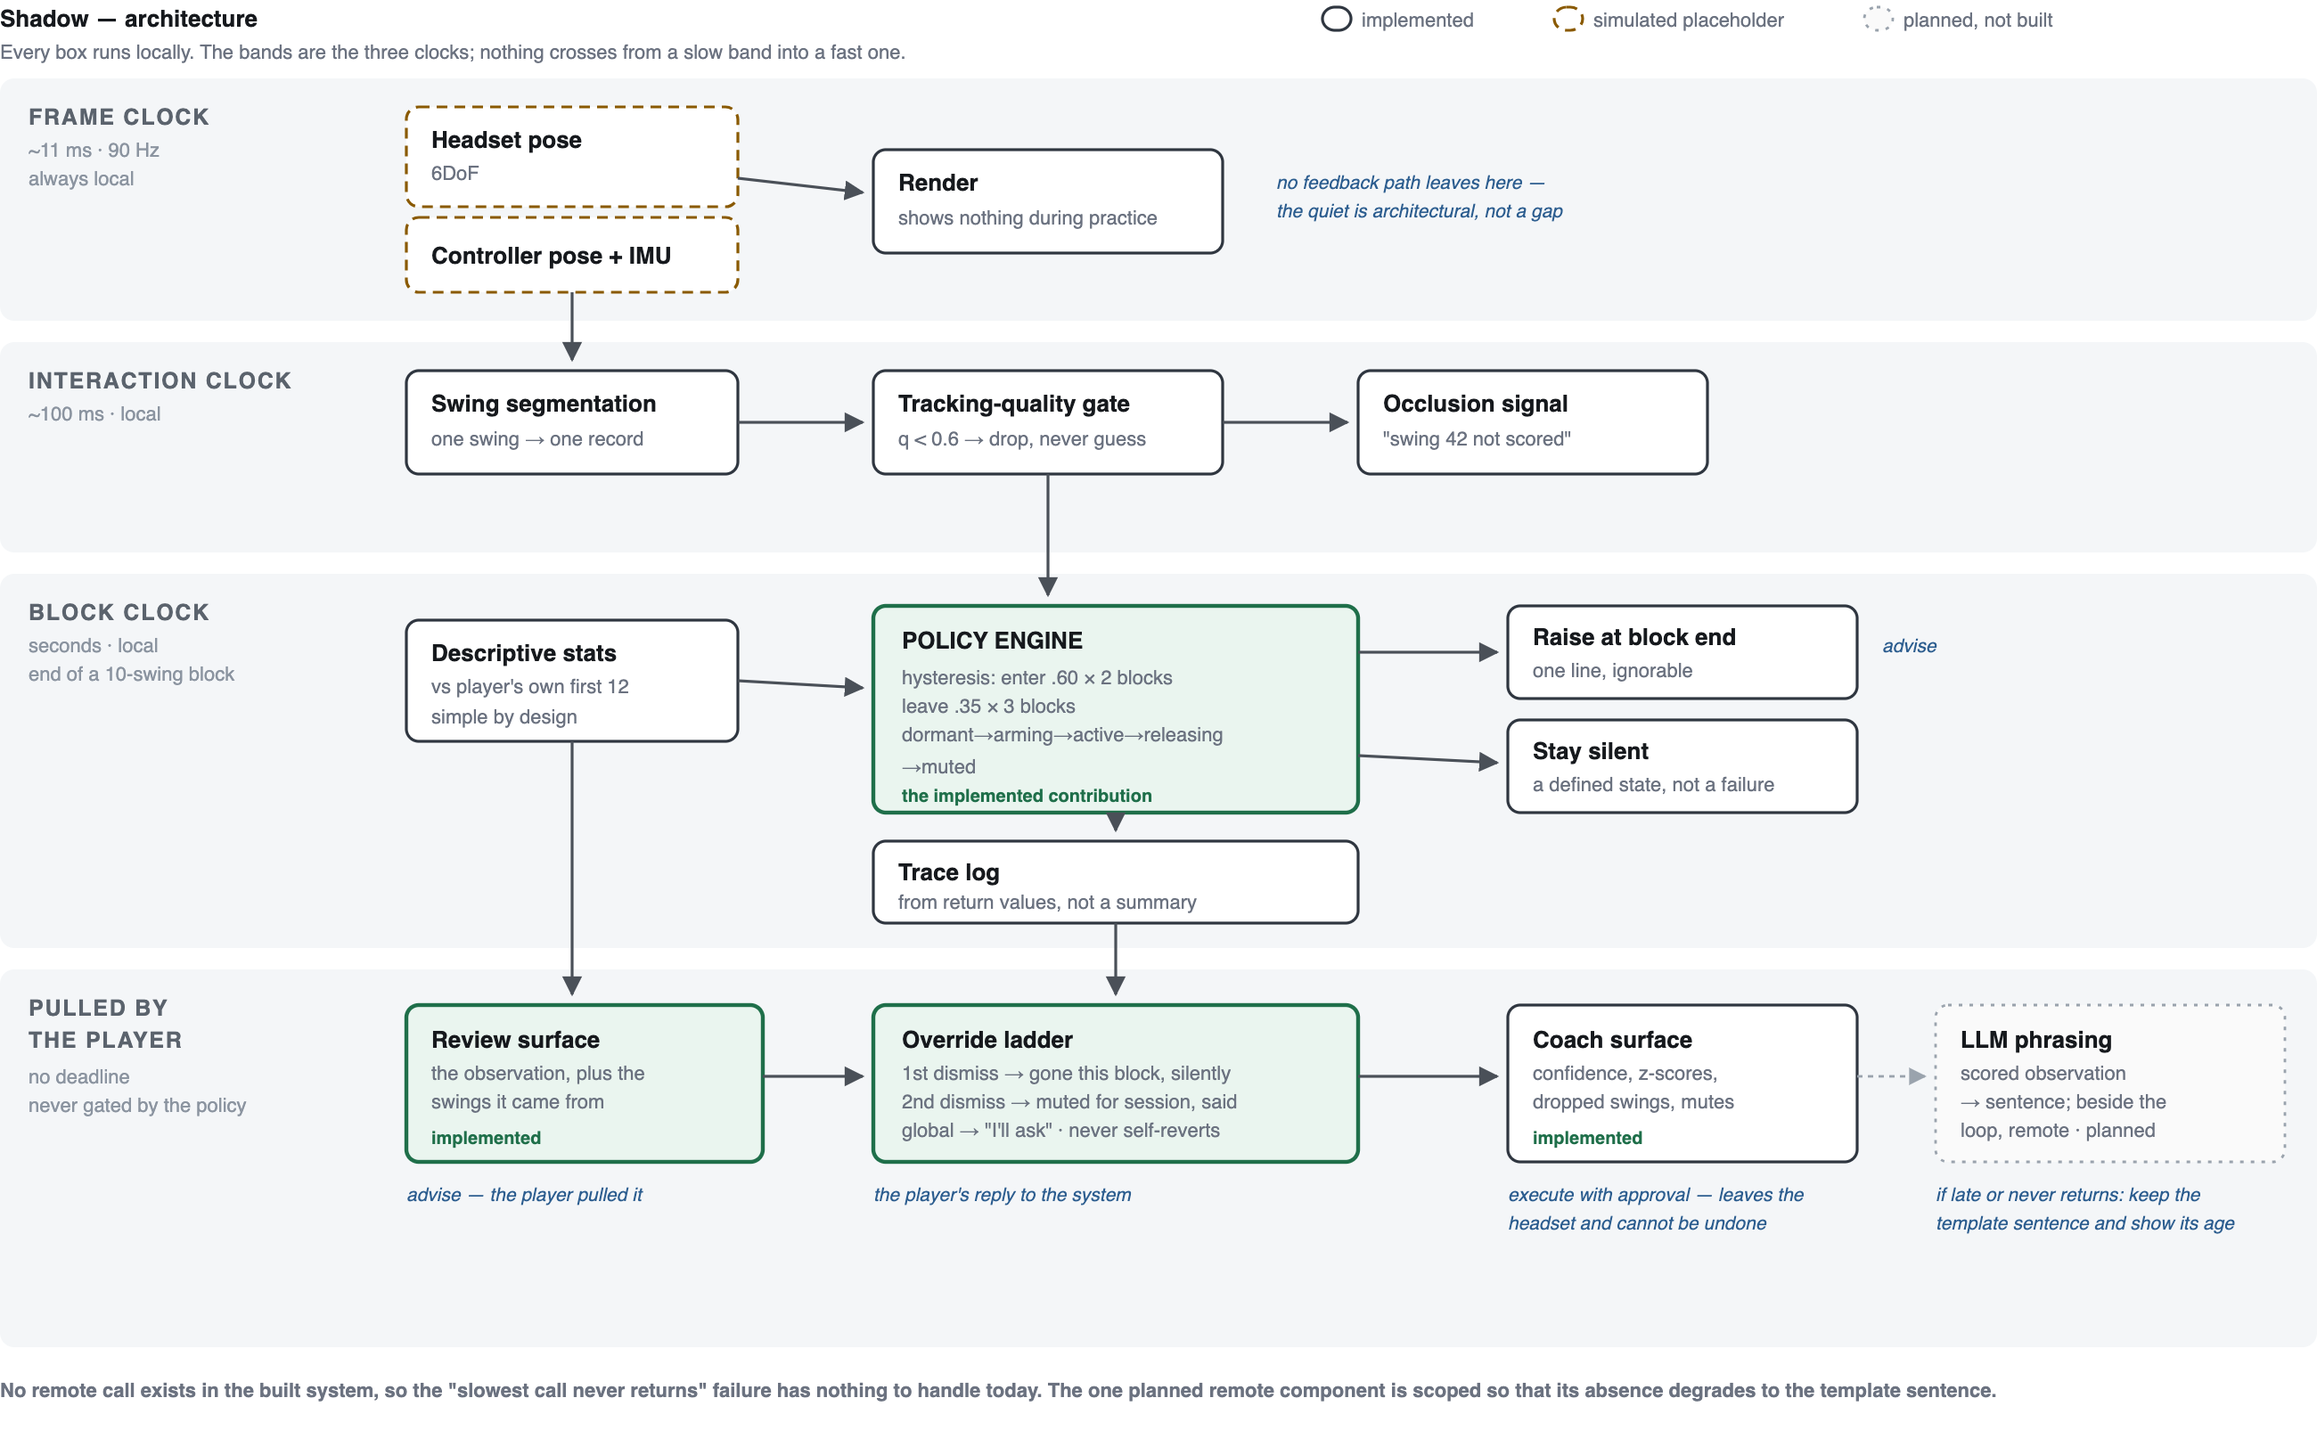
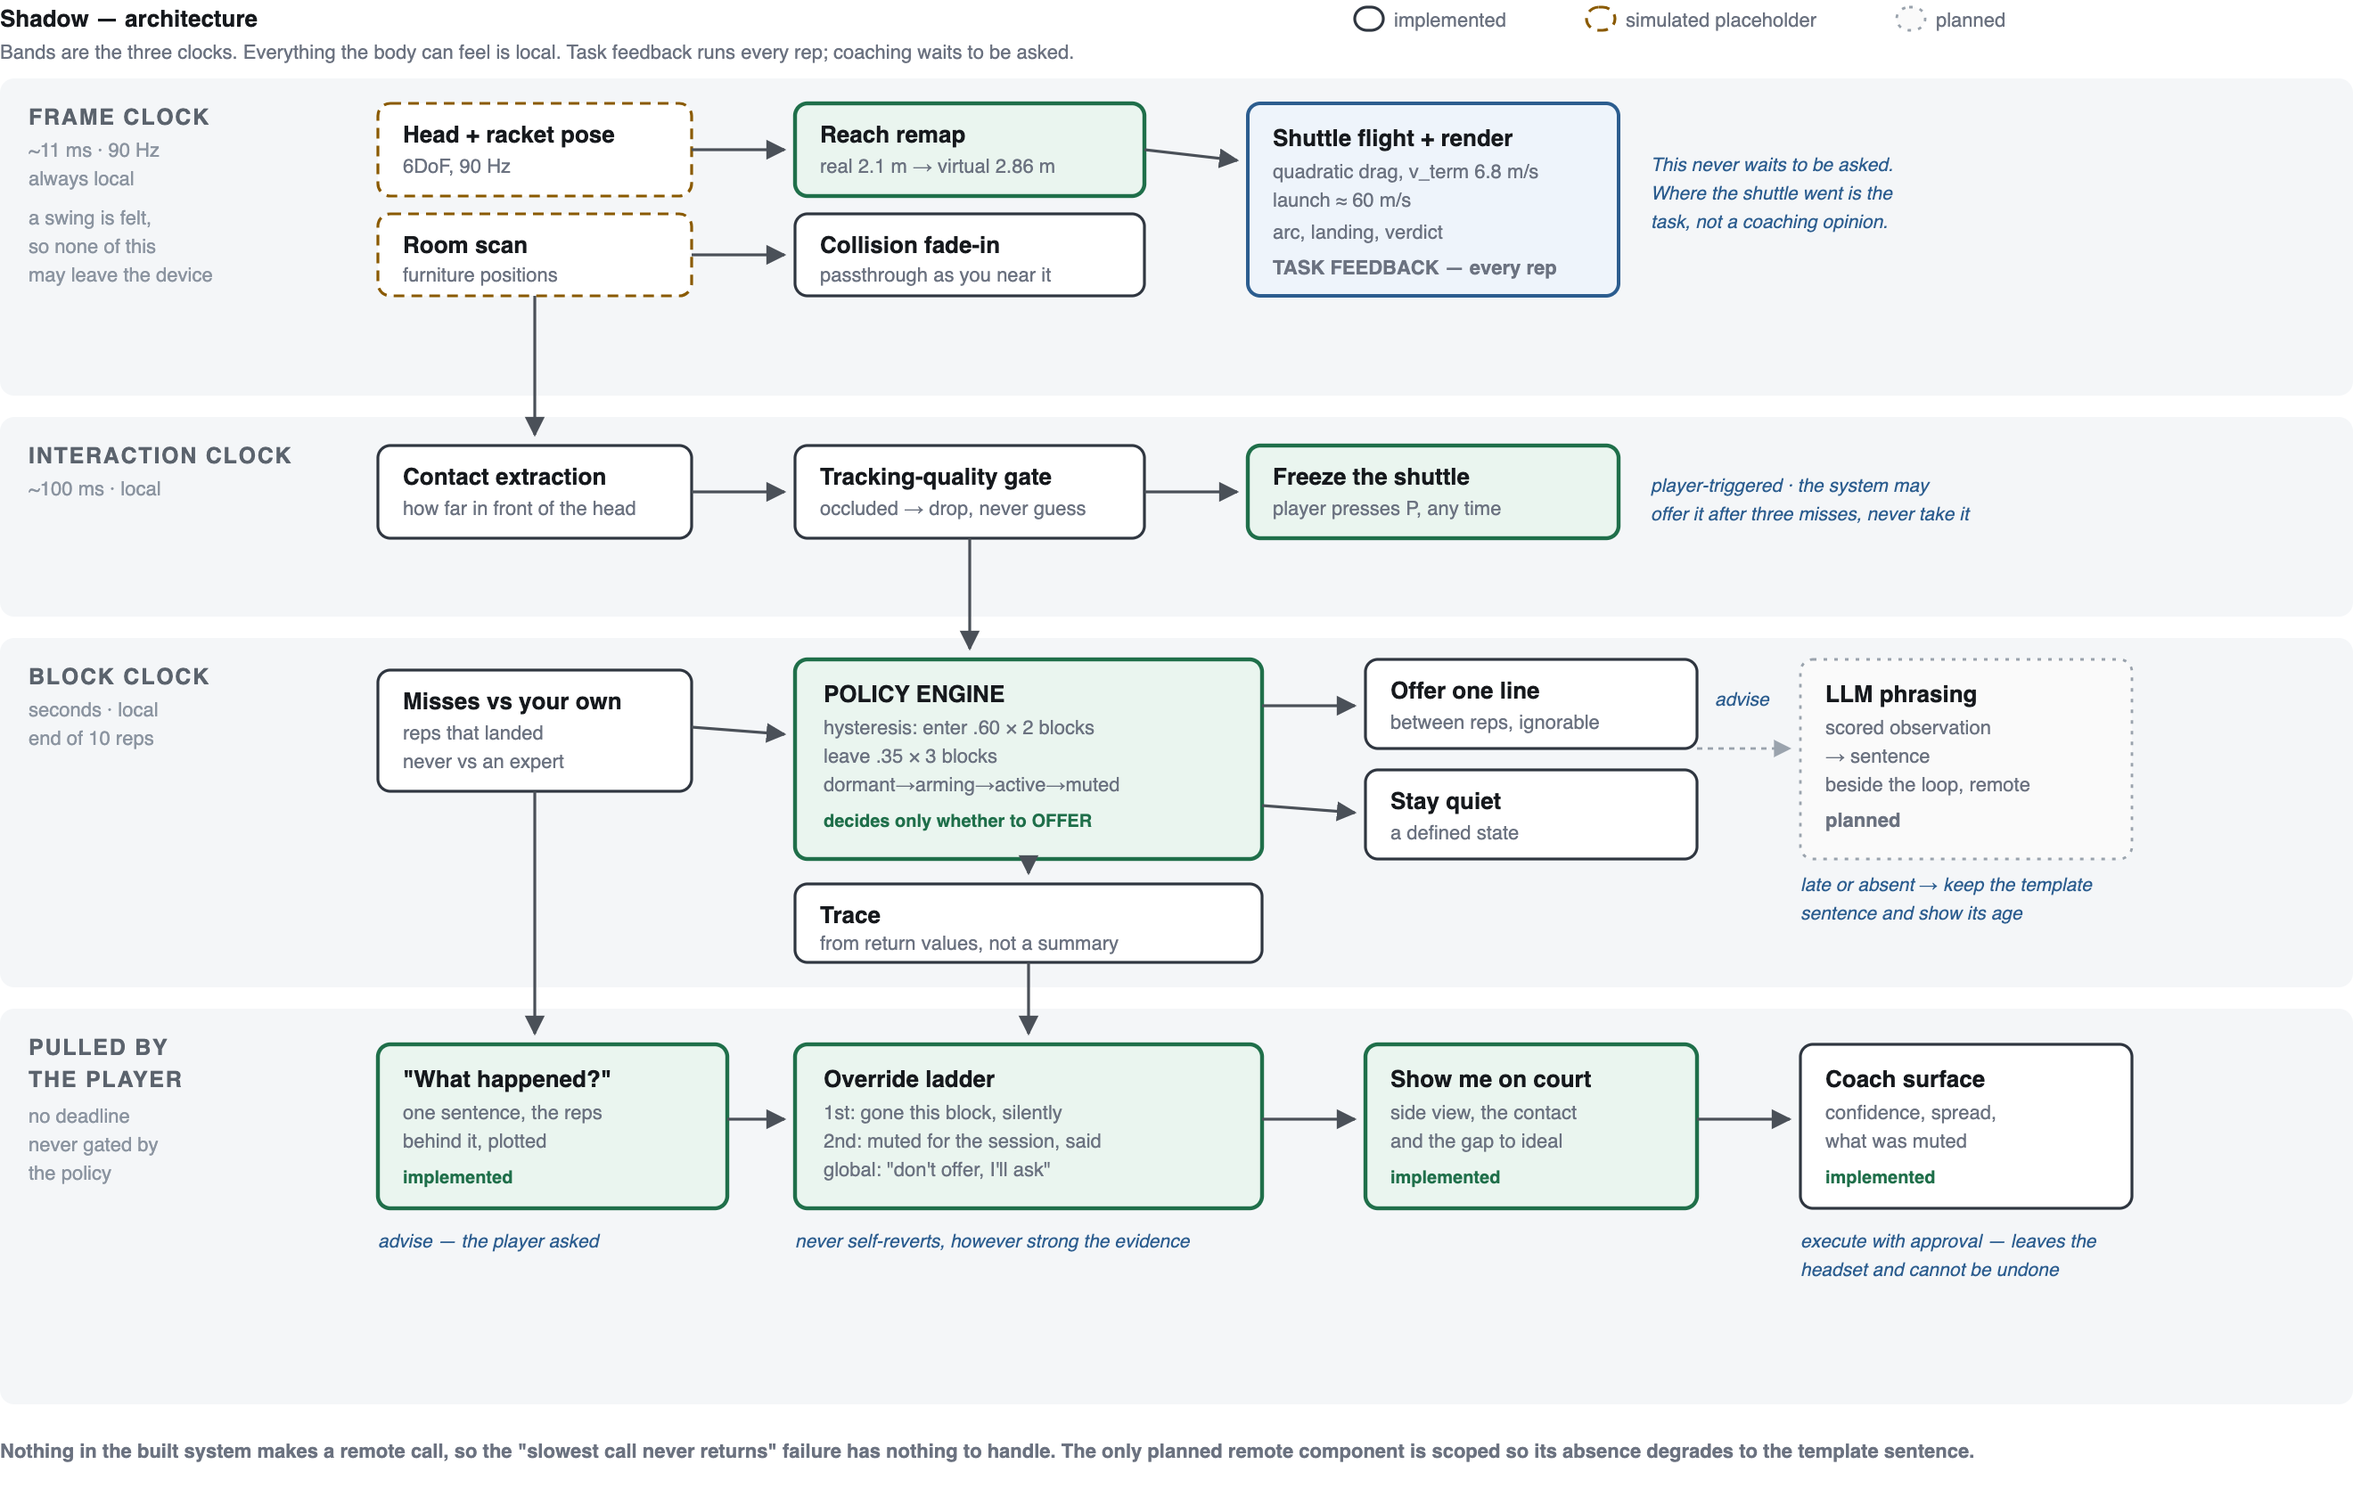
README and AGENTS.md for the rebuilt system

diff --git a/README.md b/README.md
@@ -1,12 +1,16 @@
-# Shadow — badminton shadow practice that waits to be asked
+# Shadow — badminton drills at home, where the shuttle always flies
 
-**README prose word count: ~1,020** (headings and setup commands excluded)
+**README prose word count: ~1,150** (headings and setup commands excluded)
 
-An XR practice tool for badminton shadow swings in which **the player decides when
-the system speaks**. It shows nothing while you swing. It will offer one line at the
-end of a block. Everything else, you pull.
+A home trainer for the evenings you are not on court. You stand in a full virtual
+badminton hall with your own furniture fading in through passthrough as you near it.
+A drill feeder lifts a high clear; you step, swing, and **the shuttle actually flies** —
+on the trajectory your contact produced, clearing the net or not, landing in the target
+box or past it. Every rep.
 
-Built for Assignment 2, Intelligent Interactive Systems, University of Birmingham.
+The coaching is the part that waits to be asked.
+
+Assignment 2, Intelligent Interactive Systems, University of Birmingham.
 Atharva Waghmare (AXW1008).
 
 ---
@@ -15,48 +19,45 @@ Atharva Waghmare (AXW1008).
 
 **Implemented and working**
 
-- The policy engine (`src/policy.js`) — interaction contracts, hysteresis with hold
-  times, and the three-step override ladder. This is the contribution.
-- Four surfaces: Practice, Review, Coach, Trace.
-- Evidence binding — every observation names the swings it came from and draws them
-  on the session trace.
-- The tracking-quality gate: swings with a stale pose are dropped, never guessed at,
-  and are visibly excluded from every number.
-- The decision trace, built from the engine's own return values.
+- The drill loop: feeder, step, swing, flight, landing, verdict.
+- Shuttle flight under quadratic drag. Terminal velocity 6.8 m/s, so launch is near
+  60 m/s and nearly all of it is shed — a parabola reads wrong to anyone who plays.
+- **Reach remap.** A jump smash wants ~3.0 m and a 2.4 m ceiling gives 2.1 m, so the
+  virtual racket reaches 1.36x further. Shown in the HUD, adjustable on the Room page,
+  capped at 1.6x.
+- **Freeze mid-flight** (`P`): the shuttle stops, and a dashed line shows the gap
+  between where it is and where the stroke wants to meet it. The player triggers it;
+  after three misses the system *offers*, and never takes it.
+- The policy engine: contracts, hysteresis with hold times, three-step override ladder.
+- Player review (pull-only) and a separate coach surface behind an approval gate.
+- Furniture fade-in as a collision warning.
 
-**Simulated, and labelled as such in the interface**
+**Simulated, and labelled in the interface**
 
-- Sensing. There is no headset. `src/data.js` generates a 60-swing session with a
-  swing-plane drift injected from swing 20 and three occluded swings. A1 scoped the
-  project to *when* an analysis appears rather than whether it is accurate, so the
-  sensing being simulated does not weaken the claim being tested.
-- The analysis. Descriptive statistics against the player's own first twelve swings.
-  Deliberately simple, for the same reason.
+- Head and racket tracking. There is no headset; `←`/`→` step and `Space` swings, and
+  the *timing* of that press sets where you meet the shuttle — the same variable the
+  coaching layer reads in either case.
 
 **Planned, not built**
 
-- An LLM that turns a scored observation into a sentence, sitting beside the loop
-  rather than inside it. Scoped so that if it is late or never returns, the template
-  sentence stands and shows its age.
-- Longitudinal state. Mutes last one session; nothing is remembered across sessions.
-- The pain-mapping feature from the original concept. It needs pain reports across
-  many sessions, which this build has no way to collect.
+- An LLM to phrase observations, sitting beside the loop. Scoped so that if it is late
+  or absent, the template sentence stands.
+- Progression across sessions. Mutes currently last one session.
 
 **Known limitations**
 
-- Hysteresis is tuned against one generated fixture. The thresholds are defended by
-  argument, not by data from real players.
-- There is no retention measurement. That is the outcome the underlying evidence
-  turns on, and it cannot be established inside the module.
-- The coach surface has one coach and no identity model.
+- Thresholds are defended by argument, not by data from real players.
+- No retention measurement, which is the outcome the evidence turns on.
+- The swing is reduced to its timing: the system models *when* contact happened, not
+  how the arm got there.
 
 ## Technology stack
 
 | Piece | What it does | Why |
 |---|---|---|
-| Vanilla ES modules, no framework | The whole application | No build step, so a reviewer can read the source that actually runs |
-| SVG, inline | Session sparklines | The evidence has to be visible next to the claim |
-| Playwright | `tools/shots.mjs` captures the report figures | Figures are regenerated from the running app, so they cannot drift from the code |
+| Three.js r170, vendored | The hall, court, shuttle, racket, trajectories | Vendored into `vendor/` so the repo runs with no build step and no network |
+| Vanilla ES modules | Everything else | A reviewer can read the source that actually runs |
+| Playwright | `tools/check.mjs` (9 behaviour checks), `tools/shots.mjs` (report figures) | The preview pane I first tested in throttles rAF and timers; a real browser was the only way to trust a result |
 | Python `http.server` | Local static server | ES modules need HTTP; `file://` will not load them |
 
 No AI model runs in the built system. The one planned model component is marked
@@ -70,8 +71,9 @@ python3 -m http.server 4178
 # open http://localhost:4178
 ```
 
-Fastest way to see the argument: press **Play the rest of this block** five times,
-watch that nothing appears until the fifth, then open **Review**.
+Fastest way to see it work: press **Feed a shuttle**, then **Space** about 1.5 s later.
+Too early finds the net, too late sails out, and the window in between lands in the
+target box. Press **P** during a flight to freeze it. Tick **Side view** to see the arc.
 
 To regenerate the report figures:
 
@@ -79,54 +81,62 @@ To regenerate the report figures:
 npm install
 npx playwright install chromium
 node tools/shots.mjs        # writes docs/shots/*.png
+node tools/check.mjs        # 9 behaviour checks against the running app
 ```
 
 ## Development record
 
-**The policy came first, the interface second.** The engine was written and tested
-headlessly before any screen existed, because the project's claim is about the policy
-and not about the visuals.
+**The first build was wrong, and it was wrong about what a product is.** It showed
+nothing during practice and treated that restraint as the design. A restraint is a
+constraint on a product, not a product — nobody practises badminton because an app is
+quiet. Worse, it conflated two different things: *task* feedback (where the shuttle
+went) with *augmented* feedback (a judgement about your technique). Only the second is
+what the motor-learning literature warns about. The rebuild gives the shuttle back on
+every rep and makes only the coaching wait to be asked.
 
-**The fixture was too short, and that looked like a policy bug.** On a 40-swing
-session the raise rule never fired. The first instinct was that the hysteresis was
-wrong. Printing the per-block confidence trajectory showed the policy was correct and
-the session was too short to ever produce two consecutive blocks above threshold.
-Lengthened to 60 swings. The trajectory now reads 0.04 → 0.05 → 0.49 → 1.0 → 1.0,
-which puts a full-confidence block at `arming` and silent, and only raises on the
-block after. That is the anti-flicker rule doing visible work, and it is the single
-clearest demonstration in the build.
+**The flight model was wrong by a factor of three.** Early launch speeds of 20 m/s could
+not reach the net, let alone the back of the court. A shuttle's terminal velocity is
+about 6.8 m/s, so it leaves the racket near 60 m/s and sheds nearly all of it; the
+drag-to-mass ratio, not the geometry, was what I had mis-set. Sweeping the model fixed it.
 
-**Three defects were found by driving the interface, not by reading it.** The review
-window was the whole session, so recent drift averaged away and the evidence line read
-"from swings 1, 2, 3 … 50", which tells a player nothing they can act on; it now reviews
-the most recent block and reads "10.8° higher, swings 41–50". The sparkline plotted
-swings that had not been played yet. The level-two override message was written into
-the observations container and then destroyed by the re-render on the next line, so
-muting silently said nothing — it is now held in state across the render.
+**The drill felt random before it felt hard.** At 30 degrees of launch pitch per metre
+of contact error, one centimetre of timing moved the landing a quarter of a metre. A
+sweep over the flight model settled on 18, which gives a 0.4 m contact window — roughly
+220 ms, demanding but learnable.
 
-**One behaviour was left deliberately awkward.** Escalating from dismissed to muted
-requires the observation to return in a *later* block. It cannot be done by clicking
-twice. That makes the mute harder to reach, and it is correct: the ladder is meant to
-escalate over time rather than on a double-click.
+**Two defects found by running it, not reading it.** `requestAnimationFrame` does not
+fire in every embedded context, and the flight clock was built from accumulated frame
+deltas, so physics stopped whenever rendering did and every rep reported an identical
+contact point. Flight time now comes from the wall clock and the rep state machine also
+advances on a timer. Separately, three.js `setFromPoints` reuses an existing position
+buffer and iterates its *old* count, so it threw every time a trail got shorter; the
+geometry is replaced rather than mutated.
+
+**A design decision left deliberately awkward.** Escalating from dismissed to muted
+needs the observation to come back in a *later* block. You cannot double-click your way
+to it. That makes mute harder to reach, which is correct: the ladder should escalate
+over time, not on an impatient second click.
 
 ## AI assistance
 
-Claude Opus 5, via Claude Code, was used throughout: for the literature search behind
-A1, for writing this codebase, and for drafting the report.
+Claude Opus 5, via Claude Code, was used throughout: the literature search behind A1,
+this codebase, the diagrams and the report drafts.
 
 What was checked and changed rather than accepted:
 
-- **Fabrication checks on the literature.** Every source behind A1 was verified
-  against the published paper. Three claims were wrong in the first draft and were
-  corrected: a study's participants were described as novices when they averaged 6.6
-  years of experience; a NASA-TLX subscale was misread as mental effort when it
-  measures self-rated performance; and a retention result rested on difference scores
-  because the ANOVA interaction was not significant, which the draft had not said.
-- **An architectural suggestion was rejected.** Adding an LLM to generate feedback
-  text was proposed and cut from the build. The case against it is written up in
-  `AGENTS.md` rather than hidden.
-- **Generated code was tested, not trusted.** The three interface defects above were
-  all in AI-written code and were found by running it.
+- **A whole build was rejected and rewritten.** The first version was AI-designed around
+  a single literature finding and ended up being about not doing things. That was my
+  call to throw out, and the reasoning is in the development record above.
+- **Fabrication checks on the literature.** Every A1 source was verified against the
+  published paper. Three claims were wrong in the first draft: participants described
+  as novices who averaged 6.6 years of experience, a NASA-TLX subscale misread as mental
+  effort when it measures self-rated performance, and a retention result that rested on
+  difference scores because the ANOVA interaction was not significant.
+- **Generated physics was wrong and was caught by testing it.** The 20 m/s launch speed
+  and the 30-degree sensitivity both came out of the model looking plausible and were
+  both wrong. Sweeping the parameter space, not reading the code, is what found them.
+- **An architectural suggestion was cut.** Adding an LLM to generate feedback text was
+  proposed and removed; the case against it is in `AGENTS.md` rather than hidden.
 
 ## Files
 

diff --git a/AGENTS.md b/AGENTS.md
@@ -7,12 +7,19 @@ Week 5 distinguishes a **workflow**, where code fixes the order of steps, from a
 order is fixed in code and never chosen by a model:
 
 ```
-swing recorded → window closed at block boundary → descriptive stats computed
-   → confidence scored against the player's own baseline
-   → policy state machine stepped (hysteresis)
-   → raise / hold / stay silent
-   → player pulls review (always available, never gated)
+feed → contact extracted (how far in front of the head) → shuttle flight integrated
+   → landing and verdict shown IMMEDIATELY, every rep, gated by nothing
+                                   │
+   block boundary ────────────────▶ misses compared against the player's own
+                                    reps that landed → confidence scored
+                                    → policy state machine (hysteresis)
+                                    → offer one line / stay quiet
+                                   │
+   player asks, at any time ──────▶ review (never gated by the policy)
 ```
+
+The two paths are deliberately separate. The task path never waits for anything; only
+the coaching path is subject to the policy.
 
 ### The case against this choice
 
